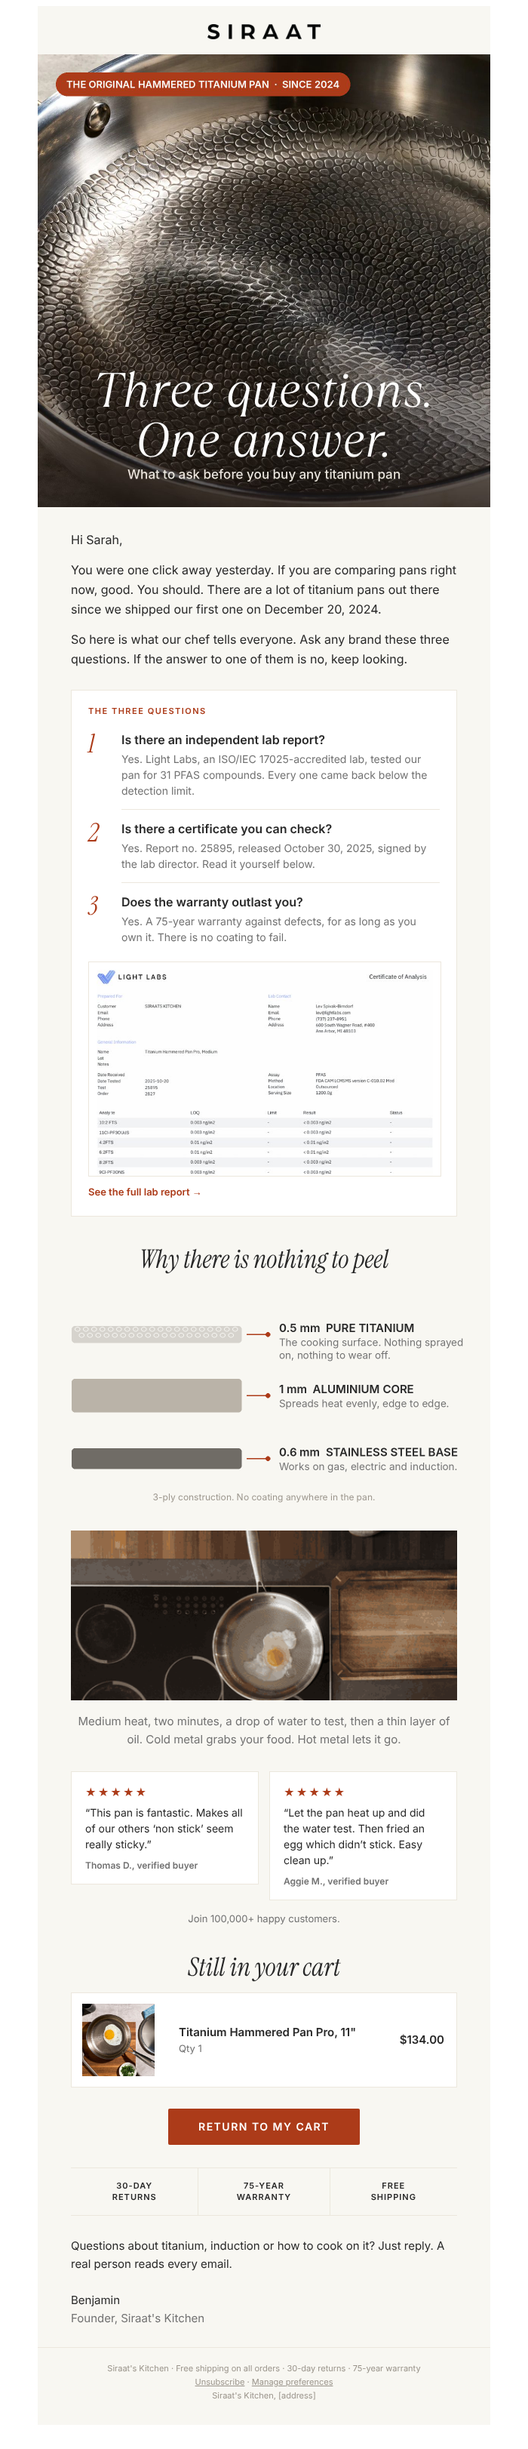
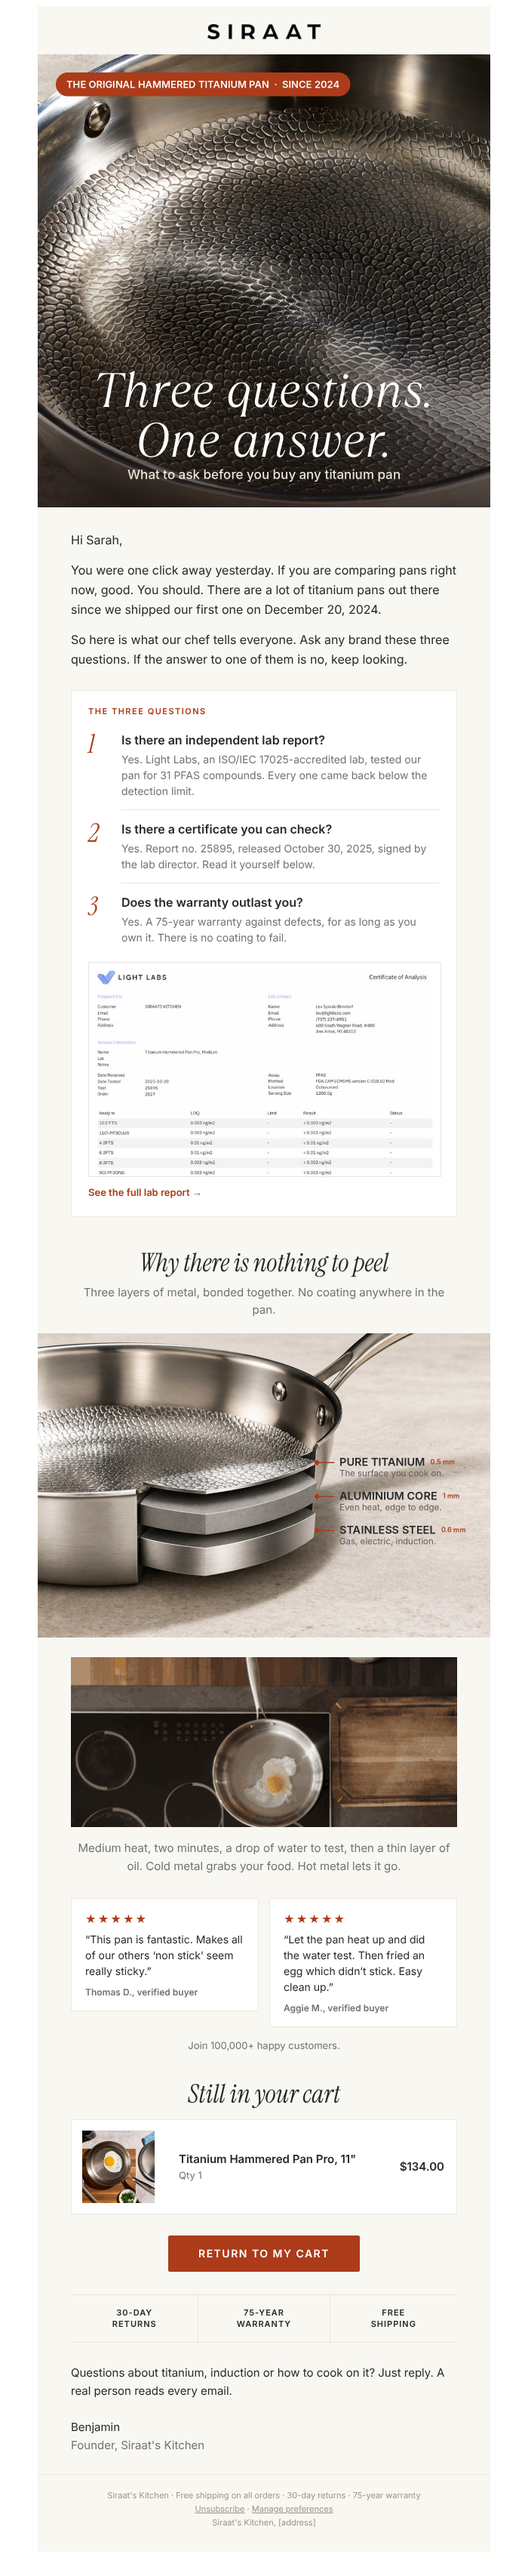
C2: fotorealistische doorsnede met labels, mobiele variant met live-tekst legenda; template bijgewerkt
Claude-Session: https://claude.ai/code/session_01HjCaDE95ohEXY6DPZTSH67

diff --git a/klaviyo/templates/c2-why-siraat.klaviyo.html b/klaviyo/templates/c2-why-siraat.klaviyo.html
@@ -20,6 +20,8 @@
     .stack{display:block!important;width:100%!important;}
     .stackpad{padding:0 0 14px 0!important;}
     .h2{font-size:30px!important;line-height:34px!important;}
+    .desk{display:none!important;max-height:0!important;overflow:hidden!important;}
+    .mob{display:block!important;max-height:none!important;overflow:visible!important;}
   }
 </style>
 </head>
@@ -83,12 +85,21 @@
   </table>
 </td></tr>
 
-<!-- WHY NO COATING: layers drawing -->
-<tr><td class="pad" style="padding:30px 44px 4px 44px;">
+<!-- WHY NO COATING: anatomy cutaway -->
+<tr><td class="pad" style="padding:34px 44px 6px 44px;">
   <div class="h2" style="font-family:'Instrument Serif','Times New Roman',serif;font-style:italic;font-size:34px;line-height:38px;color:#282828;text-align:center;">Why there is nothing to peel</div>
+  <div style="font-family:Inter,Arial,Helvetica,sans-serif;font-size:15px;line-height:23px;color:#727272;text-align:center;padding-top:8px;">Three layers of metal, bonded together. No coating anywhere in the pan.</div>
 </td></tr>
-<tr><td style="padding:10px 0 0 0;">
-  <img src="https://cdn.klaviyomail.com/company/TdtTzz/images/f8576f50-ab7b-4d28-914f-2849ea7eed1a.png" width="600" alt="3-ply construction: 0.5 mm pure titanium cooking surface, 1 mm aluminium core, 0.6 mm stainless steel base. No coating anywhere in the pan." style="width:100%;max-width:600px;height:auto;">
+<tr><td style="padding:14px 0 0 0;">
+  <!--[if !mso]><!--><div class="mob" style="display:none;max-height:0;overflow:hidden;mso-hide:all;">
+    <img src="https://cdn.klaviyomail.com/company/TdtTzz/images/4511b6e8-de10-4d08-9ac6-fd631150b183.jpeg" width="600" alt="Cutaway of the Siraat pan showing three bonded layers" style="width:100%;max-width:600px;height:auto;">
+    <table role="presentation" width="100%" cellpadding="0" cellspacing="0" border="0" style="margin-top:6px;">
+      <tr><td style="padding:12px 22px;border-bottom:1px solid #ECE7DD;font-family:Inter,Arial,Helvetica,sans-serif;"><span style="font-size:15px;font-weight:600;color:#282828;">Pure titanium</span> <span style="font-size:12px;font-weight:600;color:#AC3B19;">0.5 mm</span><br><span style="font-size:14px;line-height:20px;color:#727272;">The surface you cook on.</span></td></tr>
+      <tr><td style="padding:12px 22px;border-bottom:1px solid #ECE7DD;font-family:Inter,Arial,Helvetica,sans-serif;"><span style="font-size:15px;font-weight:600;color:#282828;">Aluminium core</span> <span style="font-size:12px;font-weight:600;color:#AC3B19;">1 mm</span><br><span style="font-size:14px;line-height:20px;color:#727272;">Even heat, edge to edge.</span></td></tr>
+      <tr><td style="padding:12px 22px;font-family:Inter,Arial,Helvetica,sans-serif;"><span style="font-size:15px;font-weight:600;color:#282828;">Stainless steel base</span> <span style="font-size:12px;font-weight:600;color:#AC3B19;">0.6 mm</span><br><span style="font-size:14px;line-height:20px;color:#727272;">Gas, electric, induction.</span></td></tr>
+    </table>
+  </div><!--<![endif]-->
+  <div class="desk"><img src="https://cdn.klaviyomail.com/company/TdtTzz/images/0f182cc7-f976-4813-bd92-84c7189eee3b.jpeg" width="600" alt="Cutaway of the Siraat pan: 0.5 mm pure titanium cooking surface, 1 mm aluminium core for even heat, 0.6 mm stainless steel base for gas, electric and induction." style="width:100%;max-width:600px;height:auto;"></div>
 </td></tr>
 
 <!-- GIF: egg slides -->

diff --git a/klaviyo/templates/c2-preview.html b/klaviyo/templates/c2-preview.html
@@ -20,6 +20,8 @@
     .stack{display:block!important;width:100%!important;}
     .stackpad{padding:0 0 14px 0!important;}
     .h2{font-size:30px!important;line-height:34px!important;}
+    .desk{display:none!important;max-height:0!important;overflow:hidden!important;}
+    .mob{display:block!important;max-height:none!important;overflow:visible!important;}
   }
 </style>
 </head>
@@ -83,12 +85,21 @@
   </table>
 </td></tr>
 
-<!-- WHY NO COATING: layers drawing -->
-<tr><td class="pad" style="padding:30px 44px 4px 44px;">
+<!-- WHY NO COATING: anatomy cutaway -->
+<tr><td class="pad" style="padding:34px 44px 6px 44px;">
   <div class="h2" style="font-family:'Instrument Serif','Times New Roman',serif;font-style:italic;font-size:34px;line-height:38px;color:#282828;text-align:center;">Why there is nothing to peel</div>
+  <div style="font-family:Inter,Arial,Helvetica,sans-serif;font-size:15px;line-height:23px;color:#727272;text-align:center;padding-top:8px;">Three layers of metal, bonded together. No coating anywhere in the pan.</div>
 </td></tr>
-<tr><td style="padding:10px 0 0 0;">
-  <img src="c2-assets/layers.png" width="600" alt="3-ply construction: 0.5 mm pure titanium cooking surface, 1 mm aluminium core, 0.6 mm stainless steel base. No coating anywhere in the pan." style="width:100%;max-width:600px;height:auto;">
+<tr><td style="padding:14px 0 0 0;">
+  <!--[if !mso]><!--><div class="mob" style="display:none;max-height:0;overflow:hidden;mso-hide:all;">
+    <img src="c2-assets/anatomy-mobile.jpg" width="600" alt="Cutaway of the Siraat pan showing three bonded layers" style="width:100%;max-width:600px;height:auto;">
+    <table role="presentation" width="100%" cellpadding="0" cellspacing="0" border="0" style="margin-top:6px;">
+      <tr><td style="padding:12px 22px;border-bottom:1px solid #ECE7DD;font-family:Inter,Arial,Helvetica,sans-serif;"><span style="font-size:15px;font-weight:600;color:#282828;">Pure titanium</span> <span style="font-size:12px;font-weight:600;color:#AC3B19;">0.5 mm</span><br><span style="font-size:14px;line-height:20px;color:#727272;">The surface you cook on.</span></td></tr>
+      <tr><td style="padding:12px 22px;border-bottom:1px solid #ECE7DD;font-family:Inter,Arial,Helvetica,sans-serif;"><span style="font-size:15px;font-weight:600;color:#282828;">Aluminium core</span> <span style="font-size:12px;font-weight:600;color:#AC3B19;">1 mm</span><br><span style="font-size:14px;line-height:20px;color:#727272;">Even heat, edge to edge.</span></td></tr>
+      <tr><td style="padding:12px 22px;font-family:Inter,Arial,Helvetica,sans-serif;"><span style="font-size:15px;font-weight:600;color:#282828;">Stainless steel base</span> <span style="font-size:12px;font-weight:600;color:#AC3B19;">0.6 mm</span><br><span style="font-size:14px;line-height:20px;color:#727272;">Gas, electric, induction.</span></td></tr>
+    </table>
+  </div><!--<![endif]-->
+  <div class="desk"><img src="c2-assets/anatomy.jpg" width="600" alt="Cutaway of the Siraat pan: 0.5 mm pure titanium cooking surface, 1 mm aluminium core for even heat, 0.6 mm stainless steel base for gas, electric and induction." style="width:100%;max-width:600px;height:auto;"></div>
 </td></tr>
 
 <!-- GIF: egg slides -->

diff --git a/klaviyo/templates/c2-why-siraat.html b/klaviyo/templates/c2-why-siraat.html
@@ -20,6 +20,8 @@
     .stack{display:block!important;width:100%!important;}
     .stackpad{padding:0 0 14px 0!important;}
     .h2{font-size:30px!important;line-height:34px!important;}
+    .desk{display:none!important;max-height:0!important;overflow:hidden!important;}
+    .mob{display:block!important;max-height:none!important;overflow:visible!important;}
   }
 </style>
 </head>
@@ -83,12 +85,21 @@
   </table>
 </td></tr>
 
-<!-- WHY NO COATING: layers drawing -->
-<tr><td class="pad" style="padding:30px 44px 4px 44px;">
+<!-- WHY NO COATING: anatomy cutaway -->
+<tr><td class="pad" style="padding:34px 44px 6px 44px;">
   <div class="h2" style="font-family:'Instrument Serif','Times New Roman',serif;font-style:italic;font-size:34px;line-height:38px;color:#282828;text-align:center;">Why there is nothing to peel</div>
+  <div style="font-family:Inter,Arial,Helvetica,sans-serif;font-size:15px;line-height:23px;color:#727272;text-align:center;padding-top:8px;">Three layers of metal, bonded together. No coating anywhere in the pan.</div>
 </td></tr>
-<tr><td style="padding:10px 0 0 0;">
-  <img src="{{IMG}}/layers.png" width="600" alt="3-ply construction: 0.5 mm pure titanium cooking surface, 1 mm aluminium core, 0.6 mm stainless steel base. No coating anywhere in the pan." style="width:100%;max-width:600px;height:auto;">
+<tr><td style="padding:14px 0 0 0;">
+  <!--[if !mso]><!--><div class="mob" style="display:none;max-height:0;overflow:hidden;mso-hide:all;">
+    <img src="{{IMG}}/anatomy-mobile.jpg" width="600" alt="Cutaway of the Siraat pan showing three bonded layers" style="width:100%;max-width:600px;height:auto;">
+    <table role="presentation" width="100%" cellpadding="0" cellspacing="0" border="0" style="margin-top:6px;">
+      <tr><td style="padding:12px 22px;border-bottom:1px solid #ECE7DD;font-family:Inter,Arial,Helvetica,sans-serif;"><span style="font-size:15px;font-weight:600;color:#282828;">Pure titanium</span> <span style="font-size:12px;font-weight:600;color:#AC3B19;">0.5 mm</span><br><span style="font-size:14px;line-height:20px;color:#727272;">The surface you cook on.</span></td></tr>
+      <tr><td style="padding:12px 22px;border-bottom:1px solid #ECE7DD;font-family:Inter,Arial,Helvetica,sans-serif;"><span style="font-size:15px;font-weight:600;color:#282828;">Aluminium core</span> <span style="font-size:12px;font-weight:600;color:#AC3B19;">1 mm</span><br><span style="font-size:14px;line-height:20px;color:#727272;">Even heat, edge to edge.</span></td></tr>
+      <tr><td style="padding:12px 22px;font-family:Inter,Arial,Helvetica,sans-serif;"><span style="font-size:15px;font-weight:600;color:#282828;">Stainless steel base</span> <span style="font-size:12px;font-weight:600;color:#AC3B19;">0.6 mm</span><br><span style="font-size:14px;line-height:20px;color:#727272;">Gas, electric, induction.</span></td></tr>
+    </table>
+  </div><!--<![endif]-->
+  <div class="desk"><img src="{{IMG}}/anatomy.jpg" width="600" alt="Cutaway of the Siraat pan: 0.5 mm pure titanium cooking surface, 1 mm aluminium core for even heat, 0.6 mm stainless steel base for gas, electric and induction." style="width:100%;max-width:600px;height:auto;"></div>
 </td></tr>
 
 <!-- GIF: egg slides -->

diff --git a/scripts/label_anatomy.py b/scripts/label_anatomy.py
@@ -1,0 +1,23 @@
+import sys
+from PIL import Image, ImageDraw, ImageFont
+src,out=sys.argv[1],sys.argv[2]
+im=Image.open(src).convert('RGB'); S=im.width/1024
+# crop to 1200x? keep 3:2; resize to 1200 wide
+im=im.resize((1200,int(1200*im.height/im.width)),Image.LANCZOS); k=1200/1024
+d=ImageDraw.Draw(im,'RGBA')
+fh=ImageFont.truetype('/usr/share/fonts/opentype/inter/Inter-SemiBold.otf',29)
+fs=ImageFont.truetype('/usr/share/fonts/opentype/inter/Inter-Regular.otf',23)
+fk=ImageFont.truetype('/usr/share/fonts/opentype/inter/Inter-SemiBold.otf',18)
+brick=(172,59,25); ink=(40,40,40); grey=(95,92,88)
+rows=[(342,"0.5 mm","PURE TITANIUM","The surface you cook on."),
+      (432,"1 mm","ALUMINIUM CORE","Even heat, edge to edge."),
+      (522,"0.6 mm","STAINLESS STEEL","Gas, electric, induction.")]
+lx=800; ex=740
+for y,mm,name,sub in rows:
+    d.ellipse((ex-6,y-6,ex+6,y+6),fill=brick)
+    d.line((ex,y,lx-14,y),fill=brick,width=3)
+    w=d.textlength(name+'  ',font=fh)
+    d.text((lx,y-20),name,font=fh,fill=ink)
+    d.text((lx+w,y-13),mm,font=fk,fill=brick)
+    d.text((lx,y+14),sub,font=fs,fill=grey)
+im.save(out,quality=86)

diff --git a/LOG.md b/LOG.md
@@ -49,3 +49,4 @@ Nieuwste bovenaan. Elke regel: datum, wat er gedaan is, wat het opleverde of wat
 - 2026-10-07 · Klaviyo-sleutel werkt volledig (200 op campaigns, lists, forms). Pop-up blijkt Alia Card Game (US Evergreen), niet Klaviyo; alle Klaviyo-forms draft.
 - 2026-10-07 · Voorbeeldmail C2 Why Siraat gebouwd als nieuwe standaard (template Yn7nyJ, niet live). 65 eigen beelden naar Shopify Files (email-*). Register af. Trustpilot nog geblokkeerd in deze container.
 - 2026-10-07 · Baselines vastgelegd (baselines/, 90 dagen tot 6 okt): flows 10,8% van omzet, welcome $2,53 per nieuwe inschrijver, checkout-recovery 0,97%, campagnes tekst $0,118 vs beeld $0,080 per ontvanger, uitschrijf 0,54%, spam 0,042%. C2-voorbeeld in Figma kit (04 Samples).
+- 2026-10-07 · C2: getekende lagen vervangen door fotorealistische doorsnede (Higgsfield gpt_image_2_5 met shoot-foto P11-C als referentie, labels in Inter via scripts/label_anatomy.py). Mobiel: aparte uitsnede plus lagen als live tekst. Template Yn7nyJ bijgewerkt.
